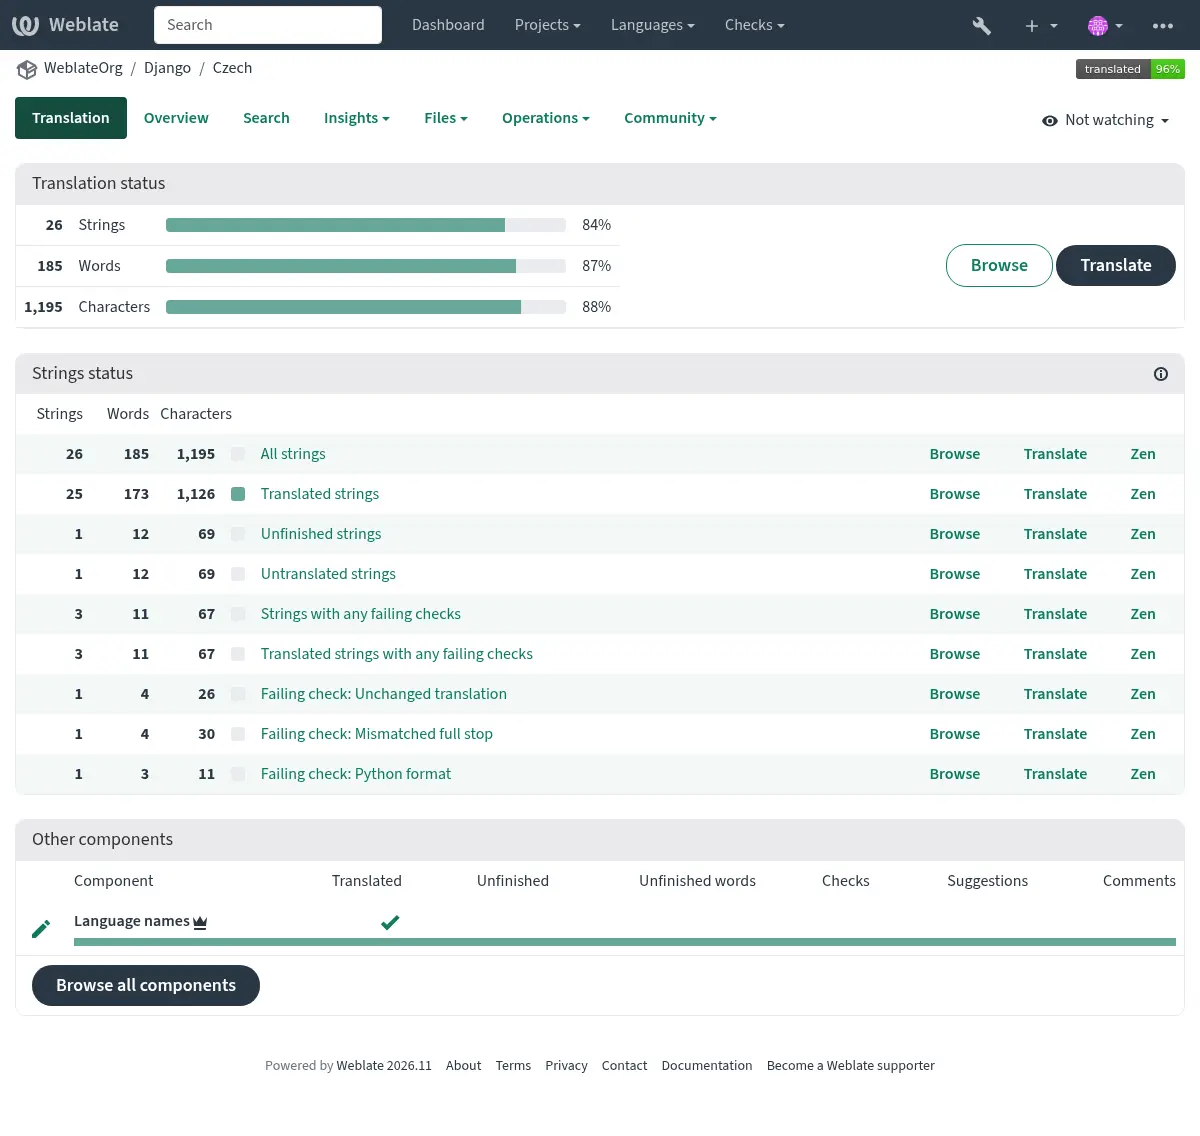
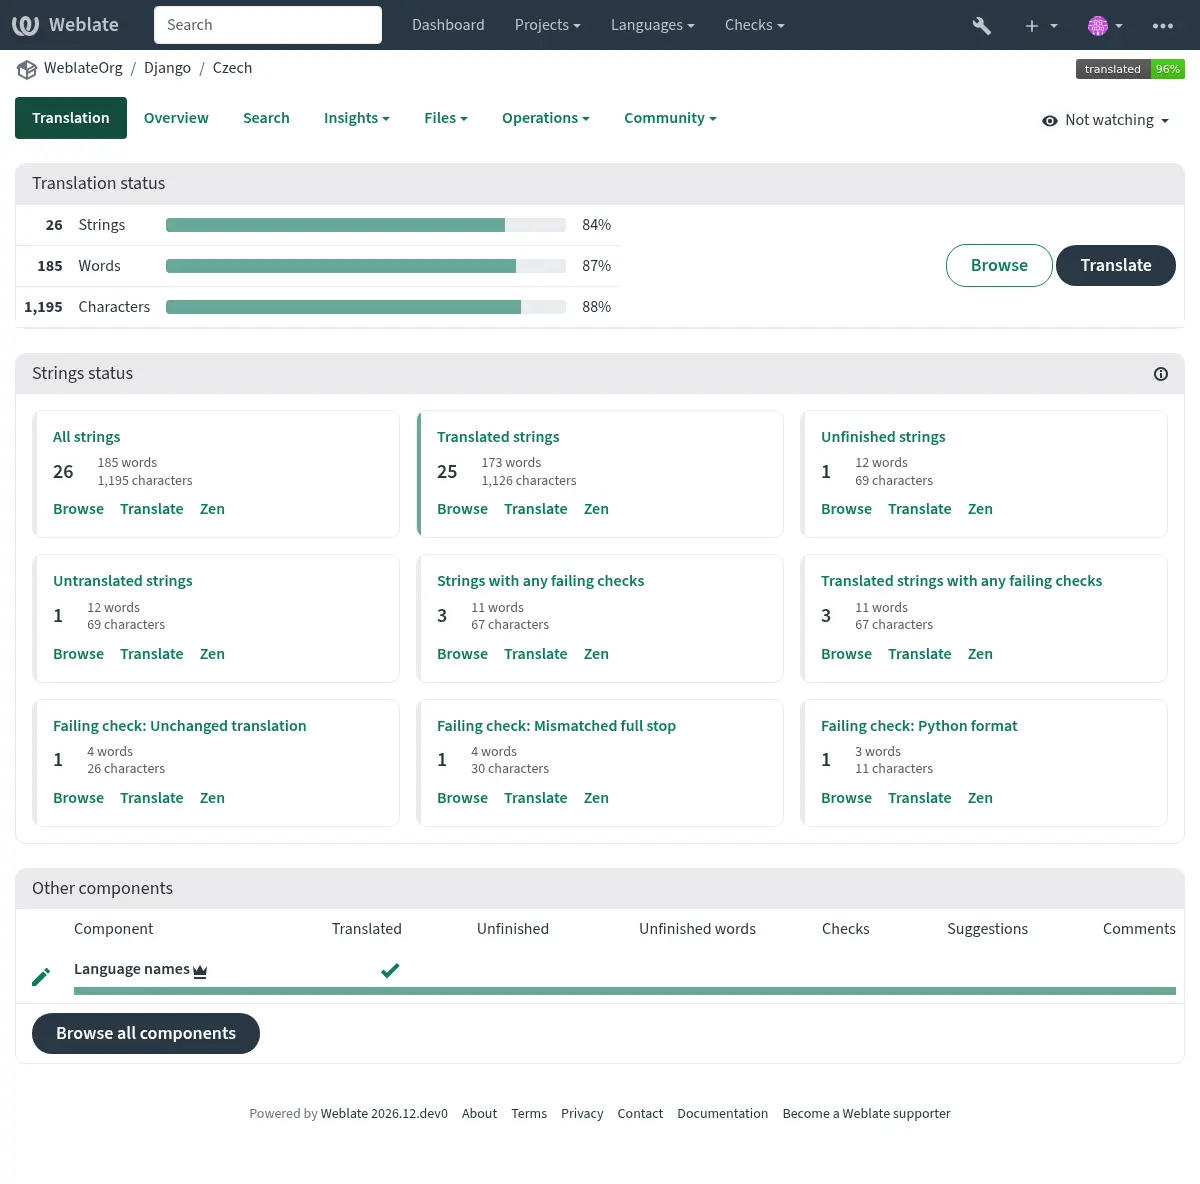
feat(ui): show translation checklist filters as responsive cards
Keep counts and editor actions together so translators can scan filters and open the preferred editor from anywhere on a card.

diff --git a/weblate/templates/snippets/translation.html b/weblate/templates/snippets/translation.html
@@ -64,48 +64,39 @@
       {% translate "Strings status" %}
     </h4>
   </div>
-  <table class="table table-autowidth table-listing table-striped">
-    <thead>
-      <tr>
-        <th class="number split-cell wrap-cell">
-          <span>{% translate "Strings" %}</span>
-          <span>{% translate "Words" %}</span>
-          <span>{% translate "Characters" %}</span>
-        </th>
-      </tr>
-    </thead>
+  <ul class="card-body translation-checklist list-unstyled mb-0">
     {% for query, name, count, color, words, characters in object.list_translation_checks %}
-      <tr data-href="{{ translate_url }}?q={{ query }}" class="clickable-row">
-        <th class="number split-cell wrap-cell">
-          <span>{{ count|intcomma }}</span>
-          <span>{{ words|intcomma }}</span>
-          <span>{{ characters|intcomma }}</span>
-        </th>
-        <td class="legend align-middle">
-          {% if name != "all" %}
-            <div class="progress"
-                 role="progressbar"
-                 aria-valuenow="100"
-                 aria-valuemin="0"
-                 aria-valuemax="100"
-                 aria-label="{{ name }}"
-                 aria-labelledby="check-label-{{ forloop.counter }}">
-              {% if color %}
-                <div class="progress-bar{% if color != "primary" %} progress-bar-{{ color }}{% endif %}"
-                     style="width: 100%"></div>
-              {% endif %}
+      {% with filter_query=query|urlencode %}
+        <li class="card mb-0 overflow-hidden overflow-wrap">
+          <span class="progress checklist-stripe" aria-hidden="true">
+            {% if color %}
+              <span class="progress-bar flex-fill{% if color != "primary" %} progress-bar-{{ color }}{% endif %}"></span>
+            {% endif %}
+          </span>
+          <h5 class="fs-6 fw-semibold">
+            <a class="stretched-link" href="{{ translate_url }}?q={{ filter_query }}">{{ name }}</a>
+          </h5>
+          <div class="d-flex align-items-center flex-wrap column-gap-4 row-gap-2">
+            <span class="fs-5 fw-semibold">
+              <span class="visually-hidden">{% translate "Strings" %}</span>
+              {{ count|intcomma }}
+            </span>
+            <div class="small text-body-secondary lh-sm">
+              <div>
+                {% blocktranslate count counter=words with number=words|intcomma %}{{ number }} word{% plural %}{{ number }} words{% endblocktranslate %}
+              </div>
+              <div>
+                {% blocktranslate count counter=characters with number=characters|intcomma %}{{ number }} character{% plural %}{{ number }} characters{% endblocktranslate %}
+              </div>
             </div>
-          {% endif %}
-        </td>
-        <td class="full-cell">
-          <a href="{{ translate_url }}?q={{ query }}" id="check-label-{{ forloop.counter }}">{{ name }}</a>
-        </td>
-        <td class="wrap-cell">
-          <a class="btn-inline" href="{{ browse_url }}?q={{ query }}">{% translate "Browse" %}</a>
-          <a class="btn-inline" href="{{ edit_url }}?q={{ query }}">{% translate "Translate" %}</a>
-          <a class="btn-inline" href="{{ zen_url }}?q={{ query }}">{% translate "Zen" %}</a>
-        </td>
-      </tr>
+          </div>
+          <div class="d-flex flex-wrap gap-3 mt-auto pt-2 fw-semibold">
+            <a class="z-2" href="{{ browse_url }}?q={{ filter_query }}">{% translate "Browse" %}</a>
+            <a class="z-2" href="{{ edit_url }}?q={{ filter_query }}">{% translate "Translate" %}</a>
+            <a class="z-2" href="{{ zen_url }}?q={{ filter_query }}">{% translate "Zen" %}</a>
+          </div>
+        </li>
+      {% endwith %}
     {% endfor %}
-  </table>
+  </ul>
 </div>

diff --git a/weblate/static/styles/main.css b/weblate/static/styles/main.css
@@ -247,6 +247,31 @@ ul.legend li {
   width: 14px;
 }
 
+.translation-checklist {
+  --checklist-stripe-width: 0.25rem;
+  display: grid;
+  grid-template-columns: repeat(auto-fill, minmax(min(100%, 20rem), 1fr));
+  gap: 1rem;
+}
+
+.translation-checklist > .card {
+  padding: 1rem;
+  padding-inline-start: calc(1rem + var(--checklist-stripe-width));
+}
+
+.translation-checklist > .card:has(.stretched-link:is(:hover, :focus-visible)) {
+  border-color: var(--bs-link-color);
+}
+
+.translation-checklist .checklist-stripe {
+  position: absolute;
+  inset-block: 0;
+  inset-inline-start: 0;
+  width: var(--checklist-stripe-width);
+  height: auto;
+  border-radius: 0;
+}
+
 .filter-marker {
   display: inline-block;
   margin-inline-end: 0.5rem;
@@ -1245,22 +1270,6 @@ th.number {
 .table-autowidth tr td,
 .table-autowidth tr th {
   white-space: nowrap;
-}
-@media (max-width: 660px) {
-  .table-autowidth tr .wrap-cell {
-    white-space: normal;
-  }
-}
-.split-cell span {
-  width: 33%;
-  padding: 0 4px;
-  display: inline-block;
-}
-@media (max-width: 660px) {
-  .split-cell span {
-    width: 100%;
-    padding: 0;
-  }
 }
 
 .table-autowidth tr .full-cell {

diff --git a/docs/changes.rst b/docs/changes.rst
@@ -15,6 +15,7 @@ Weblate 2026.12
 .. rubric:: Improvements
 
 * Show commit counts, occurrence totals, file-format evidence, and the last recorded translation change in the relevant :ref:`component diagnostics <alerts>`.
+* Redesigned the :ref:`translation checklist <strings-to-check>` as responsive cards with prominent string counts and actions next to each filter.
 
 * Moved distributed locking to :ref:`PostgreSQL <database-setup>` and enabled concurrent repository reads for downloads, component copies, Kotlin SDK extraction, project backups, and Git status checks.
 
